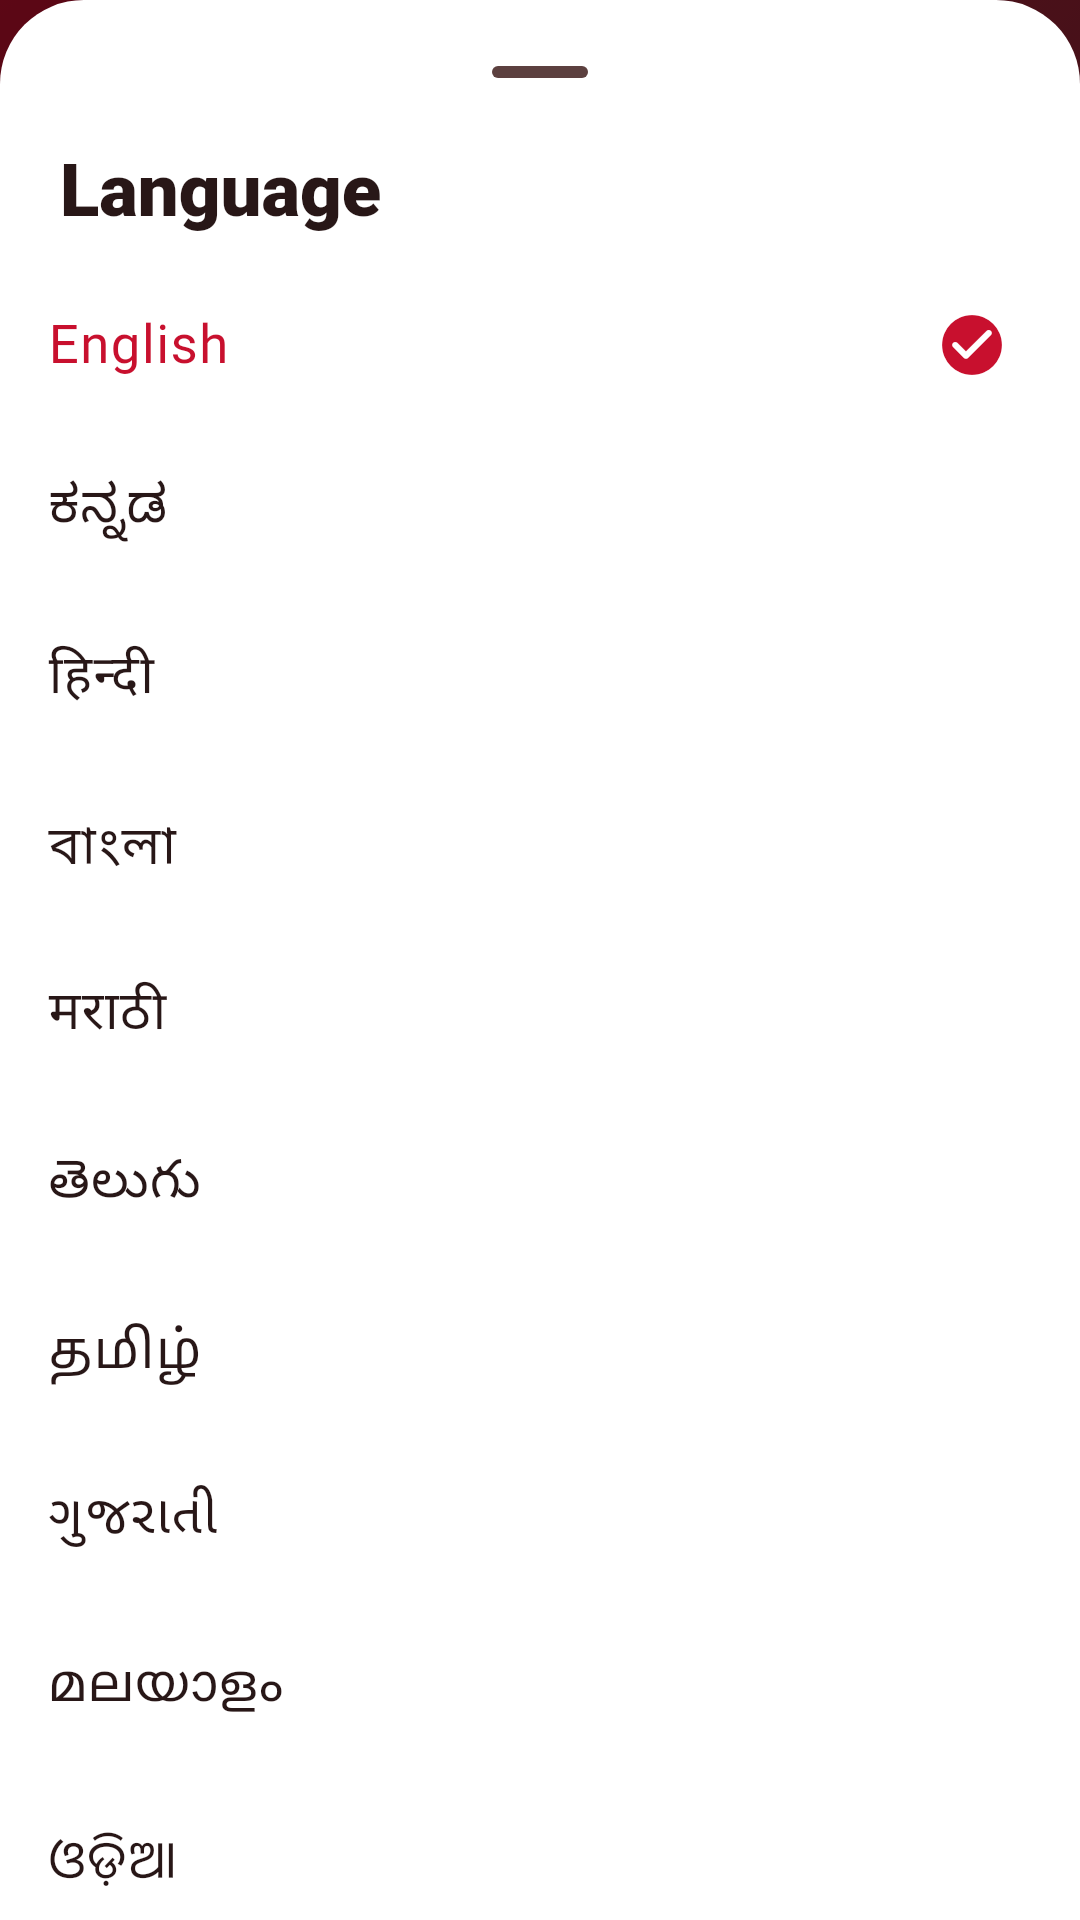
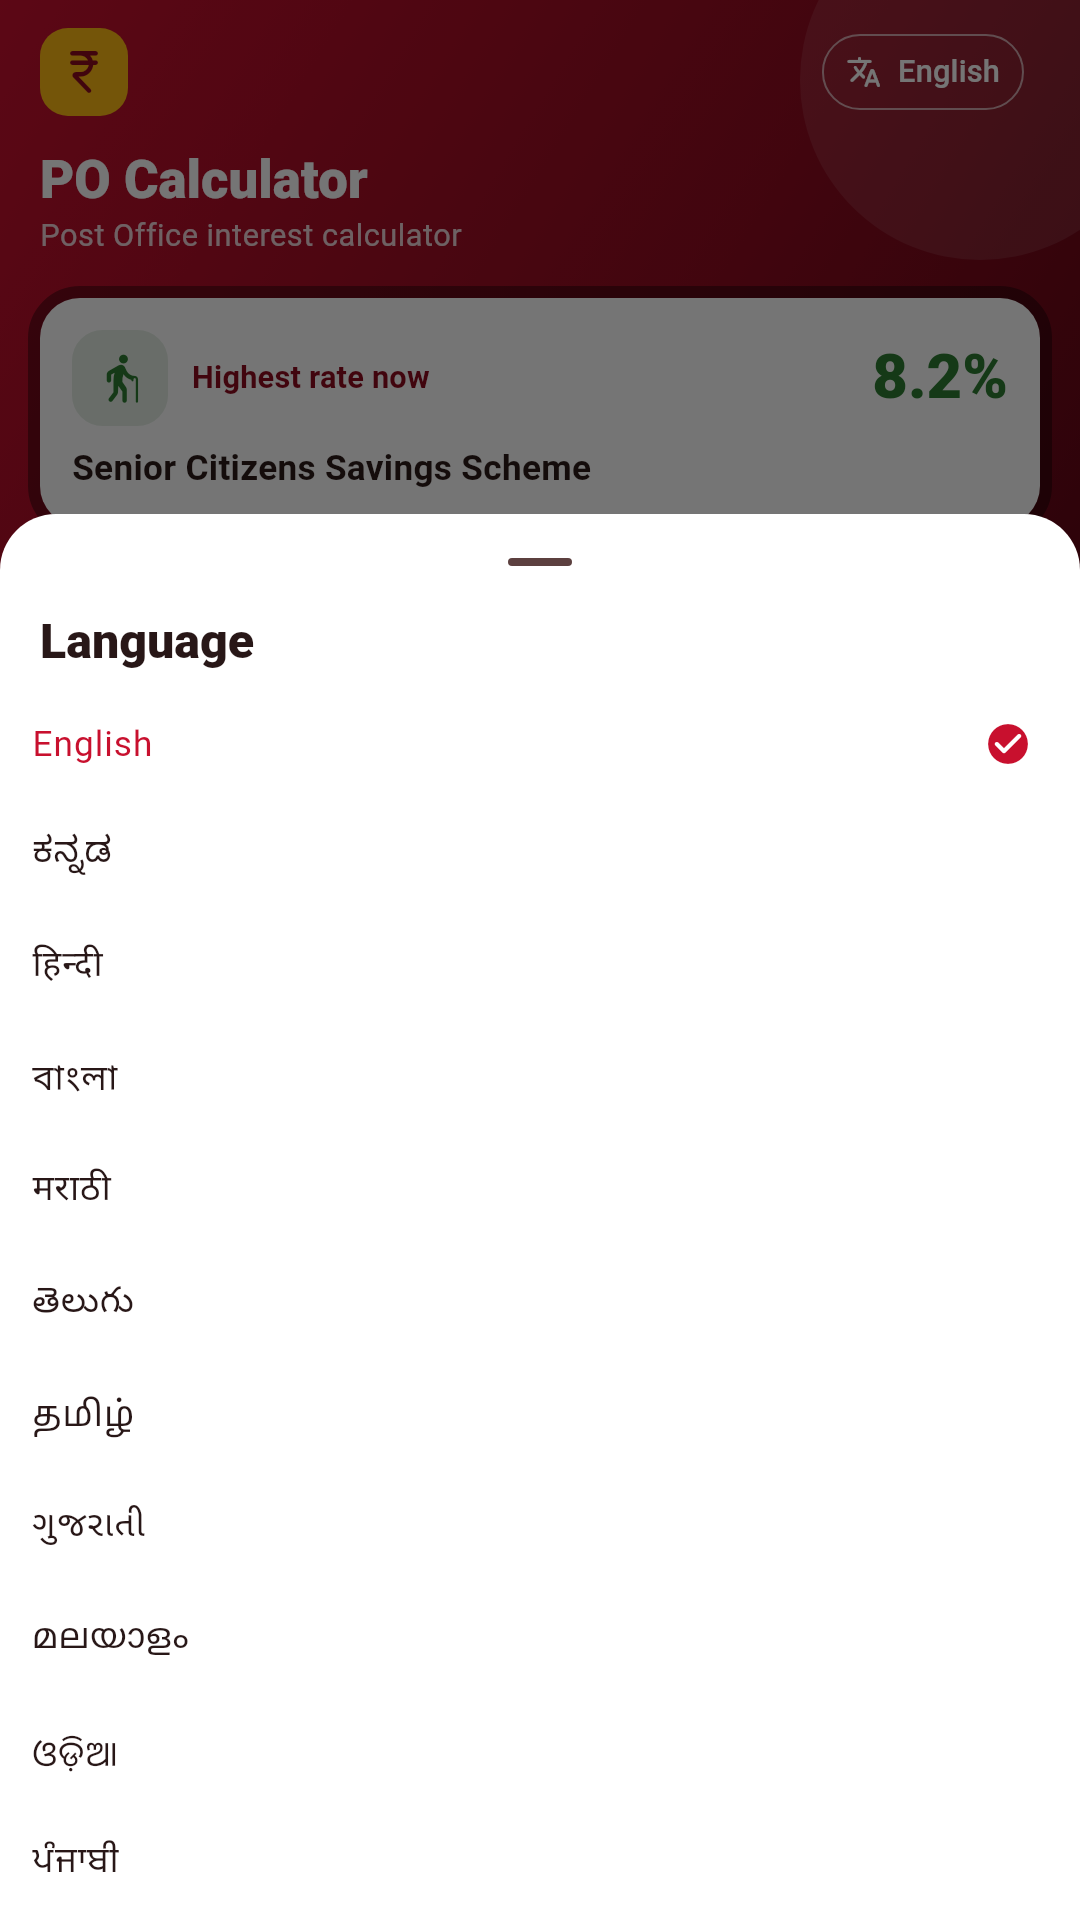
Store: retake all phone screenshots from the current app
New tool/screenshots/store_test.dart renders the 8 Play Store shots
(1080x1920): home, result, suggestions, compare, accounts, RD rebate,
forms, languages. Feature graphic rebuilt from the new shots.

Claude-Session: https://claude.ai/code/session_012VZRKny5dAwRHgm86XLQ6S

diff --git a/tool/screenshots/store_test.dart b/tool/screenshots/store_test.dart
@@ -1,0 +1,190 @@
+// Play Store phone screenshots (1080x1920, at most 8) from the current app.
+//
+//   FLUTTER_ROOT=<sdk> flutter test tool/screenshots/store_test.dart
+//
+// Needs Roboto (Flutter SDK cache) and Noto Sans for the Indian scripts
+// (apt install fonts-noto-core). Output: store/screenshots/en/*.png
+// ignore_for_file: invalid_use_of_visible_for_testing_member
+
+import 'dart:io';
+import 'dart:ui' as ui;
+
+import 'package:decimal/decimal.dart';
+import 'package:flutter/material.dart';
+import 'package:flutter/rendering.dart';
+import 'package:flutter/services.dart';
+import 'package:flutter_test/flutter_test.dart';
+import 'package:po_sahayak/app/settings.dart';
+import 'package:po_sahayak/app/theme.dart';
+import 'package:po_sahayak/data/saved_account_repository.dart';
+import 'package:po_sahayak/domain/models/result.dart';
+import 'package:po_sahayak/domain/models/scheme.dart';
+import 'package:po_sahayak/domain/rates/rate_repository.dart';
+import 'package:po_sahayak/main.dart';
+import 'package:shared_preferences/shared_preferences.dart';
+
+import 'package:po_sahayak/domain/engine/calculators.dart';
+import 'package:po_sahayak/features/result/result_screen.dart';
+
+Future<void> loadFont(String family, List<String> paths) async {
+  final loader = FontLoader(family);
+  for (final p in paths) {
+    final bytes = File(p).readAsBytesSync();
+    loader.addFont(Future.value(ByteData.view(bytes.buffer)));
+  }
+  await loader.load();
+}
+
+void main() {
+  final sdk = Platform.environment['FLUTTER_ROOT'] ?? '/opt/flutter';
+  final mf = '$sdk/bin/cache/artifacts/material_fonts';
+  const noto = '/usr/share/fonts/truetype/noto';
+  const out = 'store/screenshots/en';
+  const scripts = [
+    'Kannada',
+    'Devanagari',
+    'Bengali',
+    'Telugu',
+    'Tamil',
+    'Gujarati',
+    'Malayalam',
+    'Oriya',
+    'Gurmukhi',
+  ];
+
+  setUpAll(() async {
+    await loadFont('Roboto', [
+      '$mf/Roboto-Regular.ttf',
+      '$mf/Roboto-Medium.ttf',
+      '$mf/Roboto-Bold.ttf',
+      '$mf/Roboto-Black.ttf',
+    ]);
+    await loadFont('MaterialIcons', ['$mf/MaterialIcons-Regular.otf']);
+    for (final sc in scripts) {
+      await loadFont('Noto$sc', [
+        '$noto/NotoSans$sc-Regular.ttf',
+        '$noto/NotoSans$sc-Bold.ttf',
+      ]);
+    }
+    debugFontFallback = [for (final sc in scripts) 'Noto$sc'];
+    Directory(out).createSync(recursive: true);
+  });
+
+  testWidgets('store screenshots', (tester) async {
+    await tester.binding.setSurfaceSize(const Size(540, 960));
+    SharedPreferences.setMockInitialValues({'lang': 'en'});
+    final settings = await AppSettings.load();
+    final accounts = await SavedAccountRepository.load();
+    final rates = RateRepository.fromJson(
+      File('assets/rates.json').readAsStringSync(),
+    );
+    final today = DateUtils.dateOnly(DateTime.now());
+    await accounts.add(
+      'Amma SCSS',
+      CalcInput(
+        scheme: Scheme.scss,
+        amount: Decimal.fromInt(1500000),
+        opening: DateTime(today.year - 3, 6, 1),
+        rate: Decimal.parse('8.2'),
+      ),
+    );
+    await accounts.add(
+      'Ravi RD',
+      CalcInput(
+        scheme: Scheme.rd,
+        amount: Decimal.fromInt(5000),
+        opening: DateTime(today.year - 2, 2, 10),
+        rate: Decimal.parse('6.7'),
+      ),
+    );
+    final key = GlobalKey();
+    await tester.pumpWidget(
+      RepaintBoundary(
+        key: key,
+        child: PoSahayakApp(
+          settings: settings,
+          rates: rates,
+          accounts: accounts,
+          background: false,
+        ),
+      ),
+    );
+
+    Future<void> settle() async {
+      await tester.pump(const Duration(milliseconds: 100));
+      await tester.pumpAndSettle(const Duration(milliseconds: 100));
+    }
+
+    Future<void> shot(String name) async {
+      await settle();
+      await tester.runAsync(() async {
+        final b =
+            key.currentContext!.findRenderObject() as RenderRepaintBoundary;
+        final img = await b.toImage(pixelRatio: 2);
+        final data = await img.toByteData(format: ui.ImageByteFormat.png);
+        File('$out/$name.png').writeAsBytesSync(data!.buffer.asUint8List());
+      });
+    }
+
+    Finder list() => find.byType(Scrollable).last;
+    Future<void> scrollTo(String text, {double up = 0}) async {
+      await tester.scrollUntilVisible(
+        find.text(text).last,
+        200,
+        scrollable: list(),
+      );
+      await settle();
+      if (up != 0) await tester.drag(list(), Offset(0, up));
+    }
+
+    final nav = tester.state<NavigatorState>(find.byType(Navigator).first);
+    CalcResult calc(Scheme s, int amount, String rate) => calculate(
+      CalcInput(
+        scheme: s,
+        amount: Decimal.fromInt(amount),
+        opening: today,
+        rate: Decimal.parse(rate),
+      ),
+    );
+
+    await shot('1_home');
+
+    nav.push(
+      MaterialPageRoute<void>(
+        builder: (_) => ResultScreen(result: calc(Scheme.td5, 500000, '7.5')),
+      ),
+    );
+    await shot('2_result');
+    nav.pop();
+    await settle();
+
+    nav.push(
+      MaterialPageRoute<void>(
+        builder: (_) => ResultScreen(result: calc(Scheme.mis, 500000, '7.4')),
+      ),
+    );
+    await settle();
+    await scrollTo('Suggestions', up: 90);
+    await shot('3_suggestions');
+    nav.pop();
+    await settle();
+
+    await tester.tap(find.byIcon(Icons.leaderboard_outlined).last);
+    await shot('4_compare');
+
+    await tester.tap(find.byIcon(Icons.account_balance_wallet_outlined).last);
+    await shot('5_accounts');
+
+    await tester.tap(find.byIcon(Icons.support_agent_outlined).last);
+    await settle();
+    await scrollTo('RD advance deposit rebate', up: 40);
+    await shot('6_rd_rebate');
+    await scrollTo('Official forms', up: 40);
+    await shot('7_forms');
+
+    await tester.tap(find.byIcon(Icons.home_outlined).last);
+    await settle();
+    await tester.tap(find.text('English').first);
+    await shot('8_languages');
+  });
+}
